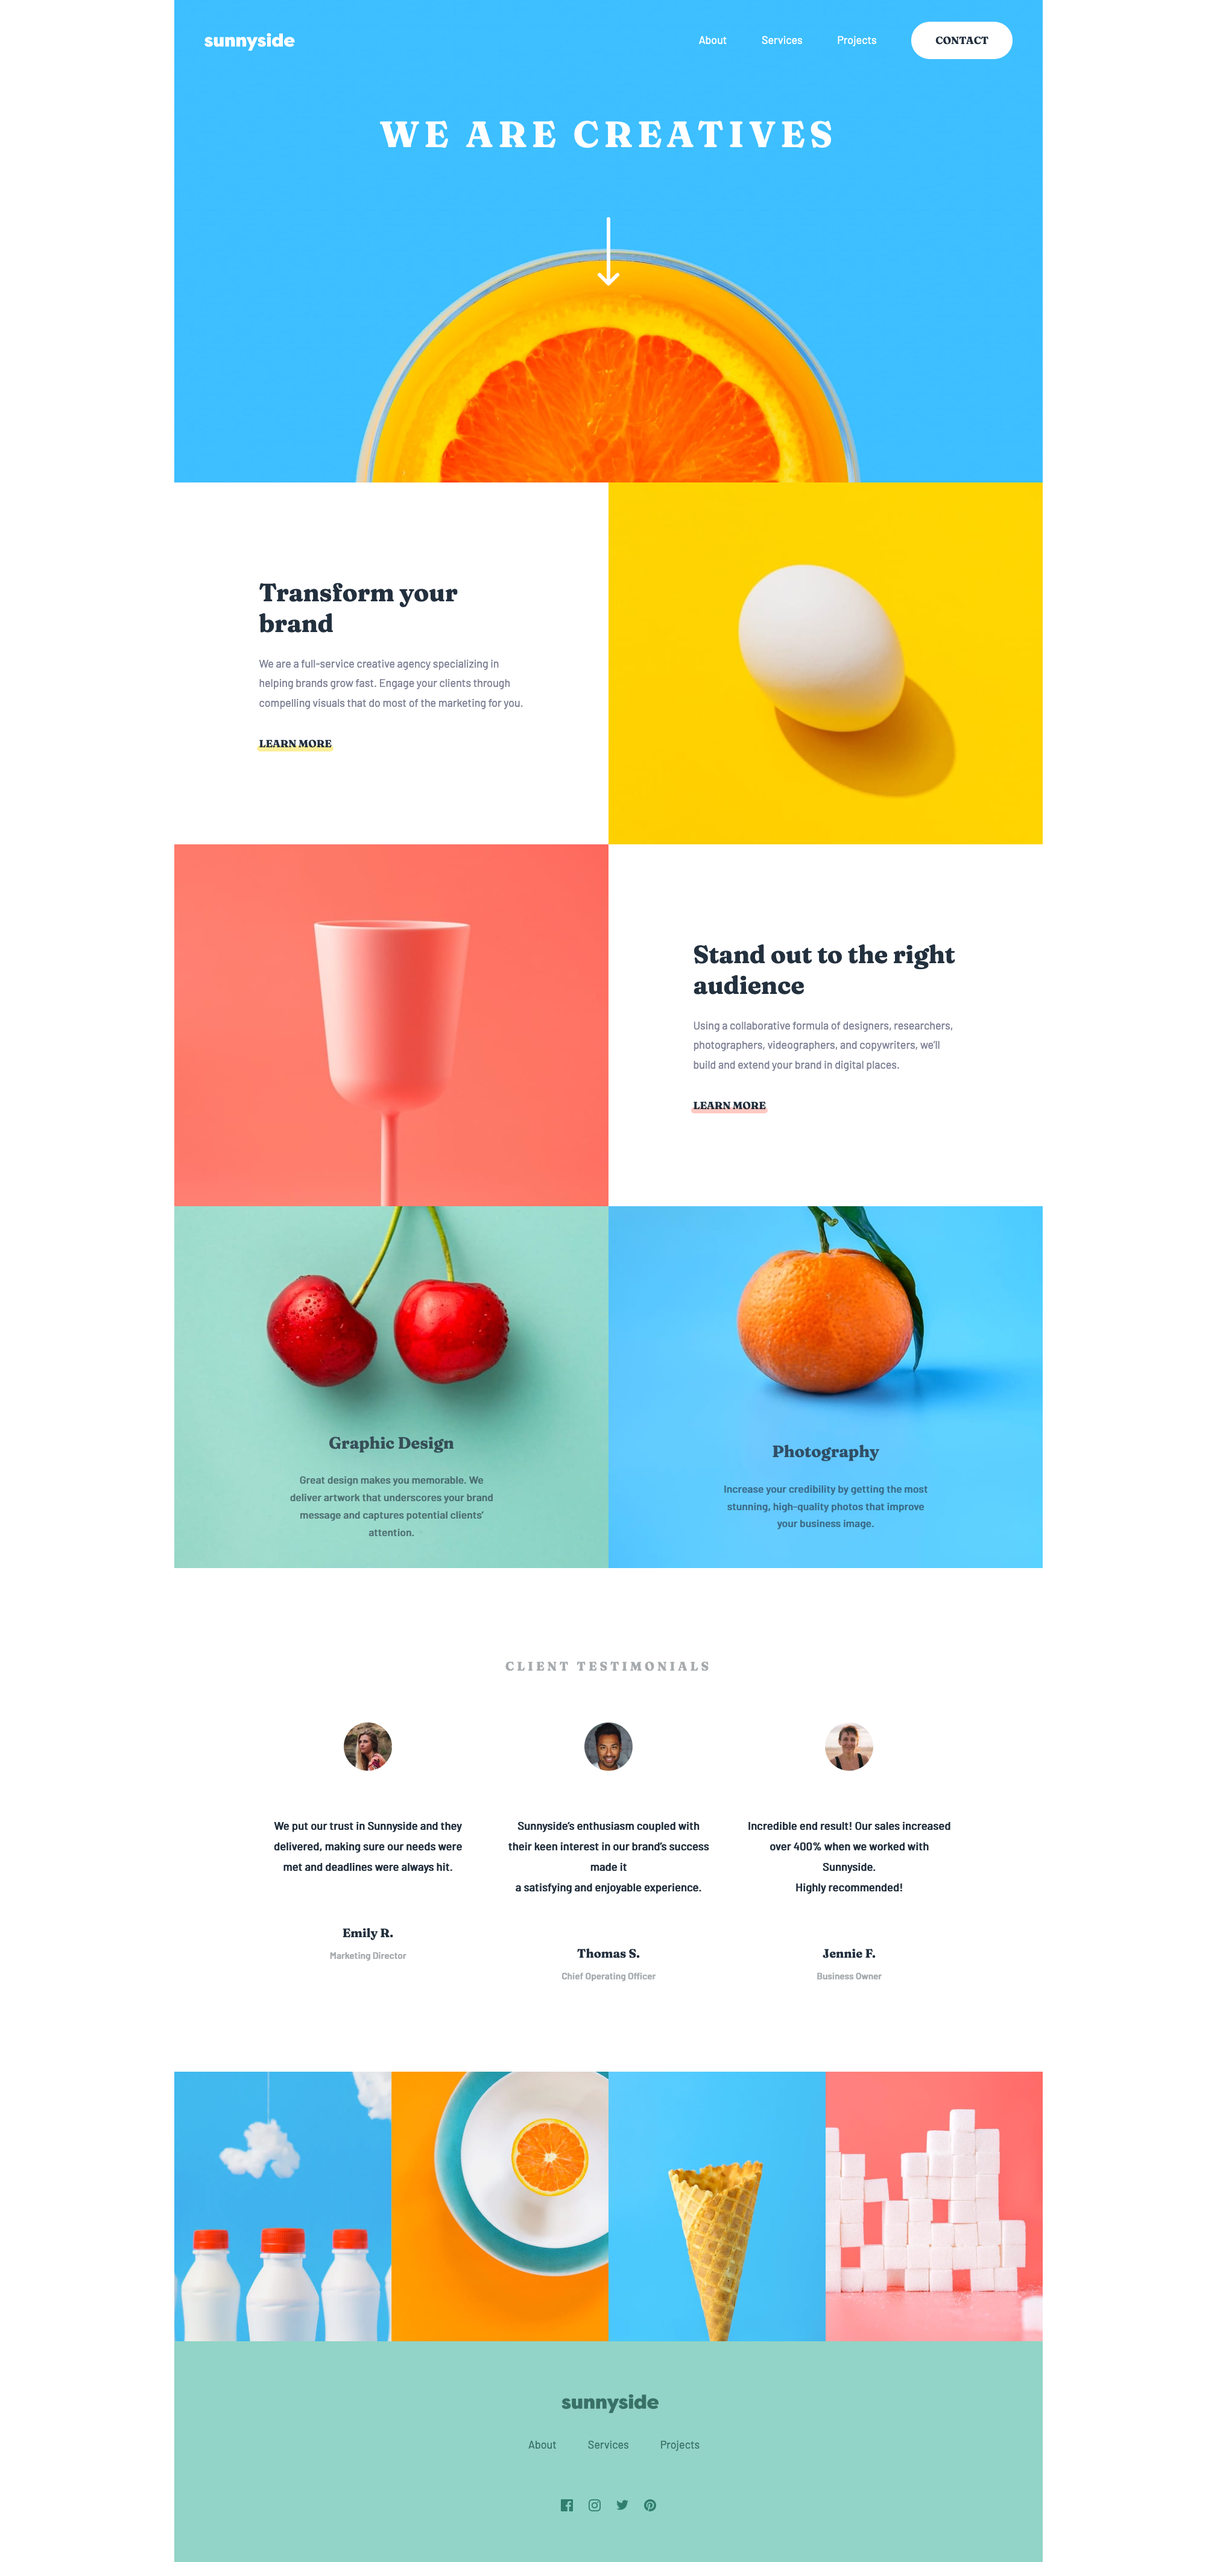
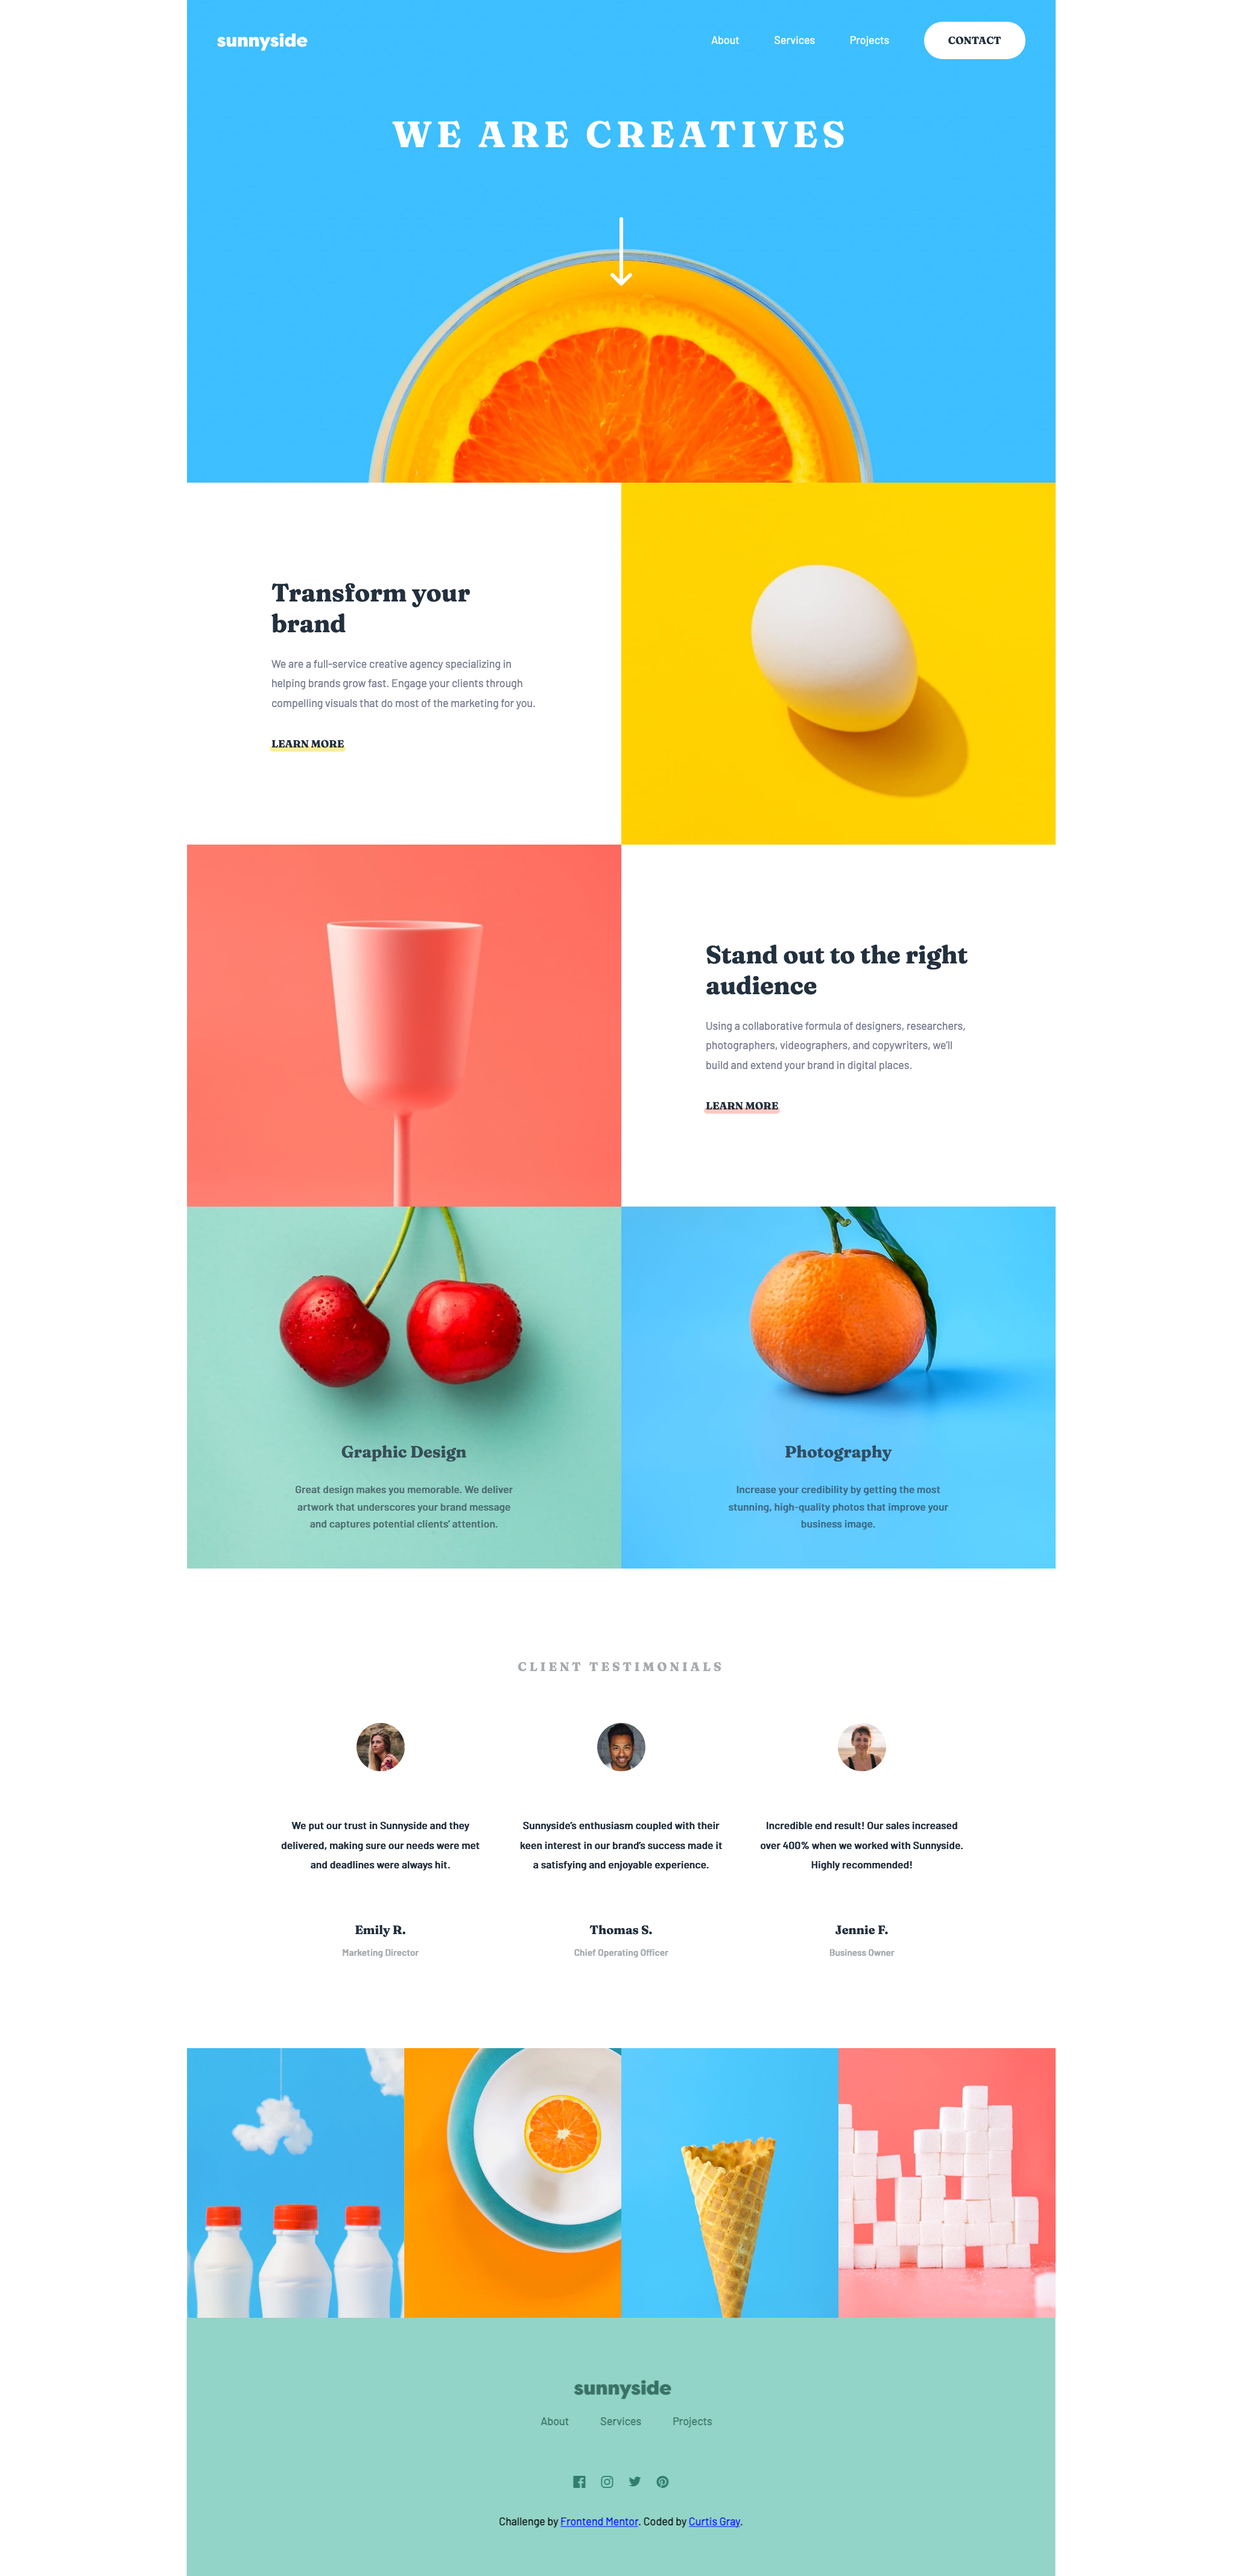
fix styles that are not same across browsers

diff --git a/index.html b/index.html
@@ -89,7 +89,7 @@
             <div class="testimonial__row">
                 <div class="testimonial__col">
                     <img src="images/image-emily.jpg" alt="Picture of Emily R." class="testimonial__img">
-                    <p class="testimonial__text">We put our trust in Sunnyside and they delivered, making sure our needs were met and deadlines were always hit.</p>
+                    <p class="testimonial__text">We put our trust in Sunnyside and they delivered, making sure our needs were met <span>and deadlines were always hit.</span></p>
                     <h5 class="testimonial__name">Emily R.</h5>
                     <p class="testimonial__title">  Marketing Director</p>
                 </div>
@@ -101,7 +101,7 @@
                 </div>
                 <div class="testimonial__col">
                     <img src="images/image-jennie.jpg" alt="Picture of Emily R." class="testimonial__img">
-                    <p class="testimonial__text">Incredible end result! Our sales increased over 400% when we worked with Sunnyside. <span>Highly recommended!</span></p>   
+                    <p class="testimonial__text">Incredible end result! Our sales increased <span>over 400% when we worked with Sunnyside.</span> <span>Highly recommended!</span></p>   
                     <h5 class="testimonial__name">Jennie F.</h5>
                     <p class="testimonial__title">Business Owner</p>
                 </div>

diff --git a/css/style.css b/css/style.css
@@ -131,6 +131,7 @@ body {
     object-fit: cover;
     position: relative; }
     .content__img--caption {
+      width: 51%;
       font-size: 2.3rem;
       color: rgba(35, 48, 62, 0.8);
       padding-top: 33rem;
@@ -169,7 +170,7 @@ body {
     border-radius: 50%;
     margin-bottom: 7rem; }
   .testimonial__text {
-    font-size: 1.8rem;
+    font-size: 1.7rem;
     font-weight: bold;
     line-height: 1.9;
     margin-bottom: 8rem; }

diff --git a/sass/_home.scss b/sass/_home.scss
@@ -51,6 +51,7 @@
     position: relative;
 
     &--caption {
+      width: 51%;
       font-size: 2.3rem;
       color: rgba($very-dark-blue, 0.8);
       padding-top: 33rem;
@@ -104,7 +105,7 @@
   }
 
   &__text {
-    font-size: 1.8rem;
+    font-size: 1.7rem;
     font-weight: bold;
     line-height: 1.9;
     margin-bottom: 8rem;
